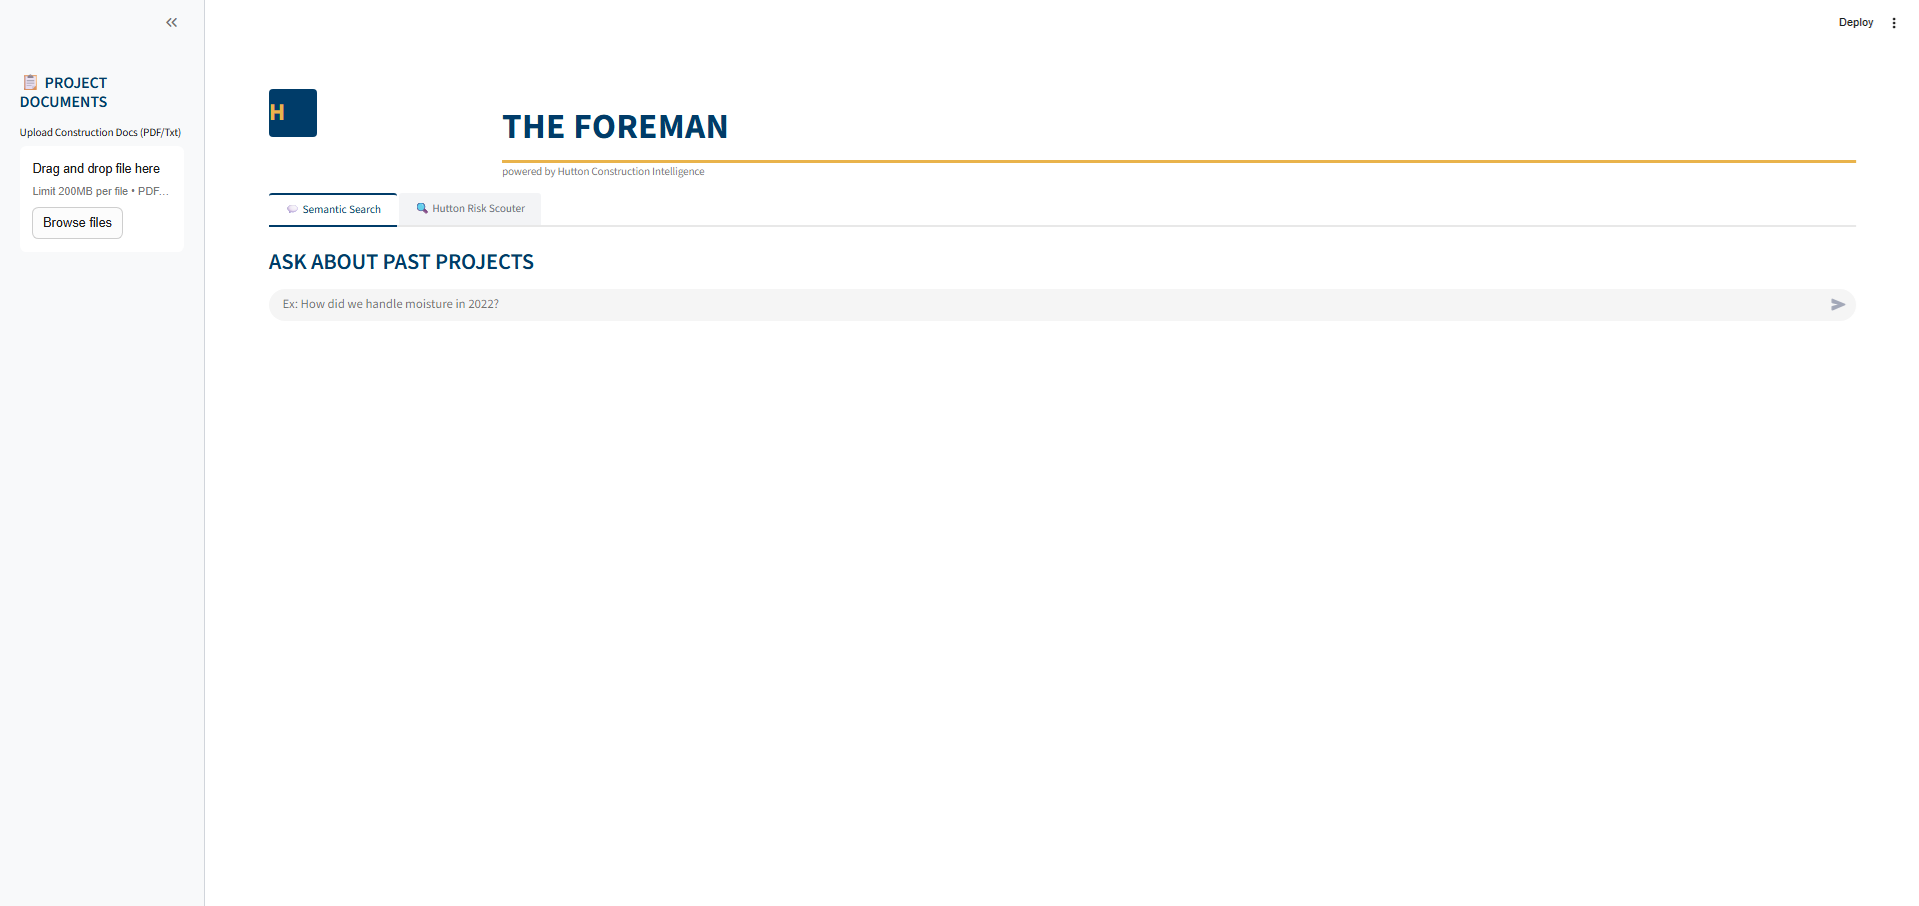
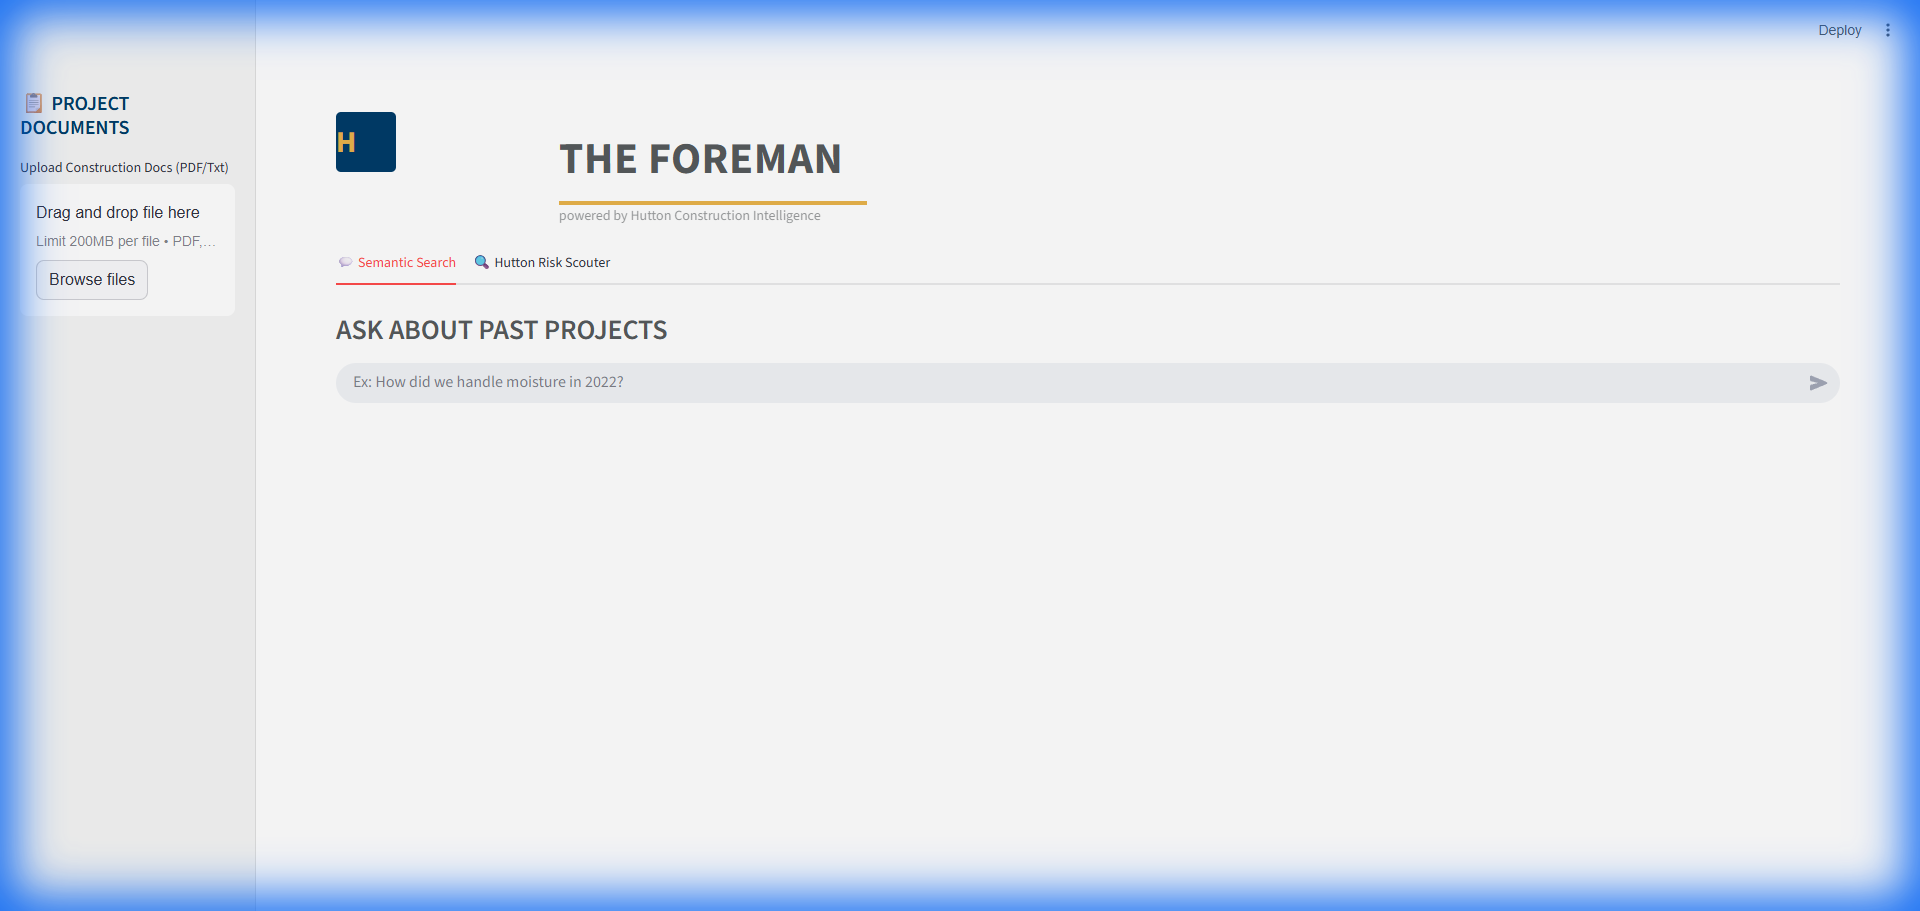
Fix Risk Scouter quota issue and add README screenshot

Changed region(s): [[0.0, 0.0, 1.0, 1.0]]

diff --git a/frontend/app.py b/frontend/app.py
@@ -63,11 +63,20 @@ with tab1:
                     answer = data['answer']
                     sources = data['source_nodes']
                     
-                    full_response = f"{answer}\n\n**Sources:**\n"
-                    for s in sources:
-                        full_response += f"- `{s}`\n"
-                        
+                    full_response = f"{answer}\n\n"
                     message_placeholder.markdown(full_response)
+                    
+                    st.markdown("### 📚 Sources Used")
+                    for s in sources:
+                        meta = s.get('metadata', {})
+                        score = s.get('score', 0.0)
+                        file_name = meta.get('file_name', 'Unknown Document')
+                        page_label = meta.get('page_label', 'N/A')
+                        
+                        with st.expander(f"📄 {file_name} - Page {page_label} (Match: {score:.2f})"):
+                            st.markdown(f"**Content:**\n\n{s['content']}")
+                            st.caption(f"Path: {meta.get('file_path', 'N/A')}")
+                        
                     st.session_state.messages.append({"role": "assistant", "content": full_response})
                 else:
                     message_placeholder.error("Failed to get response from backend.")

diff --git a/frontend/ui_components.py b/frontend/ui_components.py
@@ -18,7 +18,32 @@ def apply_custom_css():
             font-family: 'Helvetica Neue', Helvetica, Arial, sans-serif;
             letter-spacing: -0.2px;
         }
+
+        /* Link Styling */
+        a {
+            color: var(--primary-color) !important;
+            text-decoration: none;
+            transition: color 0.2s;
+        }
+        a:hover {
+            color: var(--accent-color) !important;
+            text-decoration: underline;
+        }
         
+        /* Layout & Whitespace Control */
+        .stApp > header {
+            background-color: transparent !important;
+        }
+        
+        .main .block-container {
+            max-width: 1200px;
+            padding-top: 4rem;
+            padding-bottom: 4rem;
+            padding-left: 2rem;
+            padding-right: 2rem;
+            margin: 0 auto;
+        }
+
         h1, h2, h3 {
             color: var(--primary-color) !important;
             font-weight: 700;

diff --git a/test_risk.py b/test_risk.py
@@ -1,0 +1,24 @@
+from backend.risk_scouter import analyze_risk
+import logging
+import sys
+
+# Configure logging
+logging.basicConfig(stream=sys.stdout, level=logging.INFO)
+logging.getLogger().addHandler(logging.StreamHandler(stream=sys.stdout))
+
+def test_risk():
+    print("Testing Risk Analysis...")
+    description = "We are building a Manufacturing industrial facility in an area that receives more vibration than usual"
+    
+    try:
+        result = analyze_risk(description)
+        print("\nAnalysis Result:")
+        print(result["analysis"][:200] + "...")
+        print("\nRelevant Projects:", result["relevant_past_projects"])
+    except Exception as e:
+        print(f"Error: {e}")
+        import traceback
+        traceback.print_exc()
+
+if __name__ == "__main__":
+    test_risk()

diff --git a/backend/rag_engine.py b/backend/rag_engine.py
@@ -26,8 +26,8 @@ if not all([SUPABASE_URL, SUPABASE_KEY, GOOGLE_API_KEY]):
 # Setup Gemini Models
 # "Flash" for fast, standard retrieval-based queries
 llm_flash = Gemini(model="models/gemini-3-flash-preview", api_key=GOOGLE_API_KEY)
-# "Pro" for complex reasoning and risk analysis
-llm_pro = Gemini(model="models/gemini-3-pro-preview", api_key=GOOGLE_API_KEY)
+# "Pro" for complex reasoning and risk analysis (Using Gemini 2.0 Flash for stability/quota)
+llm_pro = Gemini(model="models/gemini-2.0-flash", api_key=GOOGLE_API_KEY)
 
 # Default embedding model (The actual "Retrieval" engine)
 gemini_embedding_model = GeminiEmbedding(model_name="models/text-embedding-004", api_key=GOOGLE_API_KEY)

diff --git a/backend/main.py b/backend/main.py
@@ -43,7 +43,14 @@ async def query_index(request: QueryRequest):
         
         return QueryResponse(
             answer=str(response),
-            source_nodes=[node.node.get_content()[:200] + "..." for node in response.source_nodes]
+            source_nodes=[
+                {
+                    "content": node.node.get_content(),
+                    "metadata": node.node.metadata,
+                    "score": node.score
+                }
+                for node in response.source_nodes
+            ]
         )
     except Exception as e:
         raise HTTPException(status_code=500, detail=str(e))

diff --git a/backend/models.py b/backend/models.py
@@ -10,9 +10,14 @@ class QueryRequest(BaseModel):
     query: str
     top_k: Optional[int] = 3
 
+class SourceNode(BaseModel):
+    content: str
+    metadata: dict
+    score: Optional[float] = None
+
 class QueryResponse(BaseModel):
     answer: str
-    source_nodes: List[str]
+    source_nodes: List[SourceNode]
 
 class RiskScoutRequest(BaseModel):
     project_description: str
